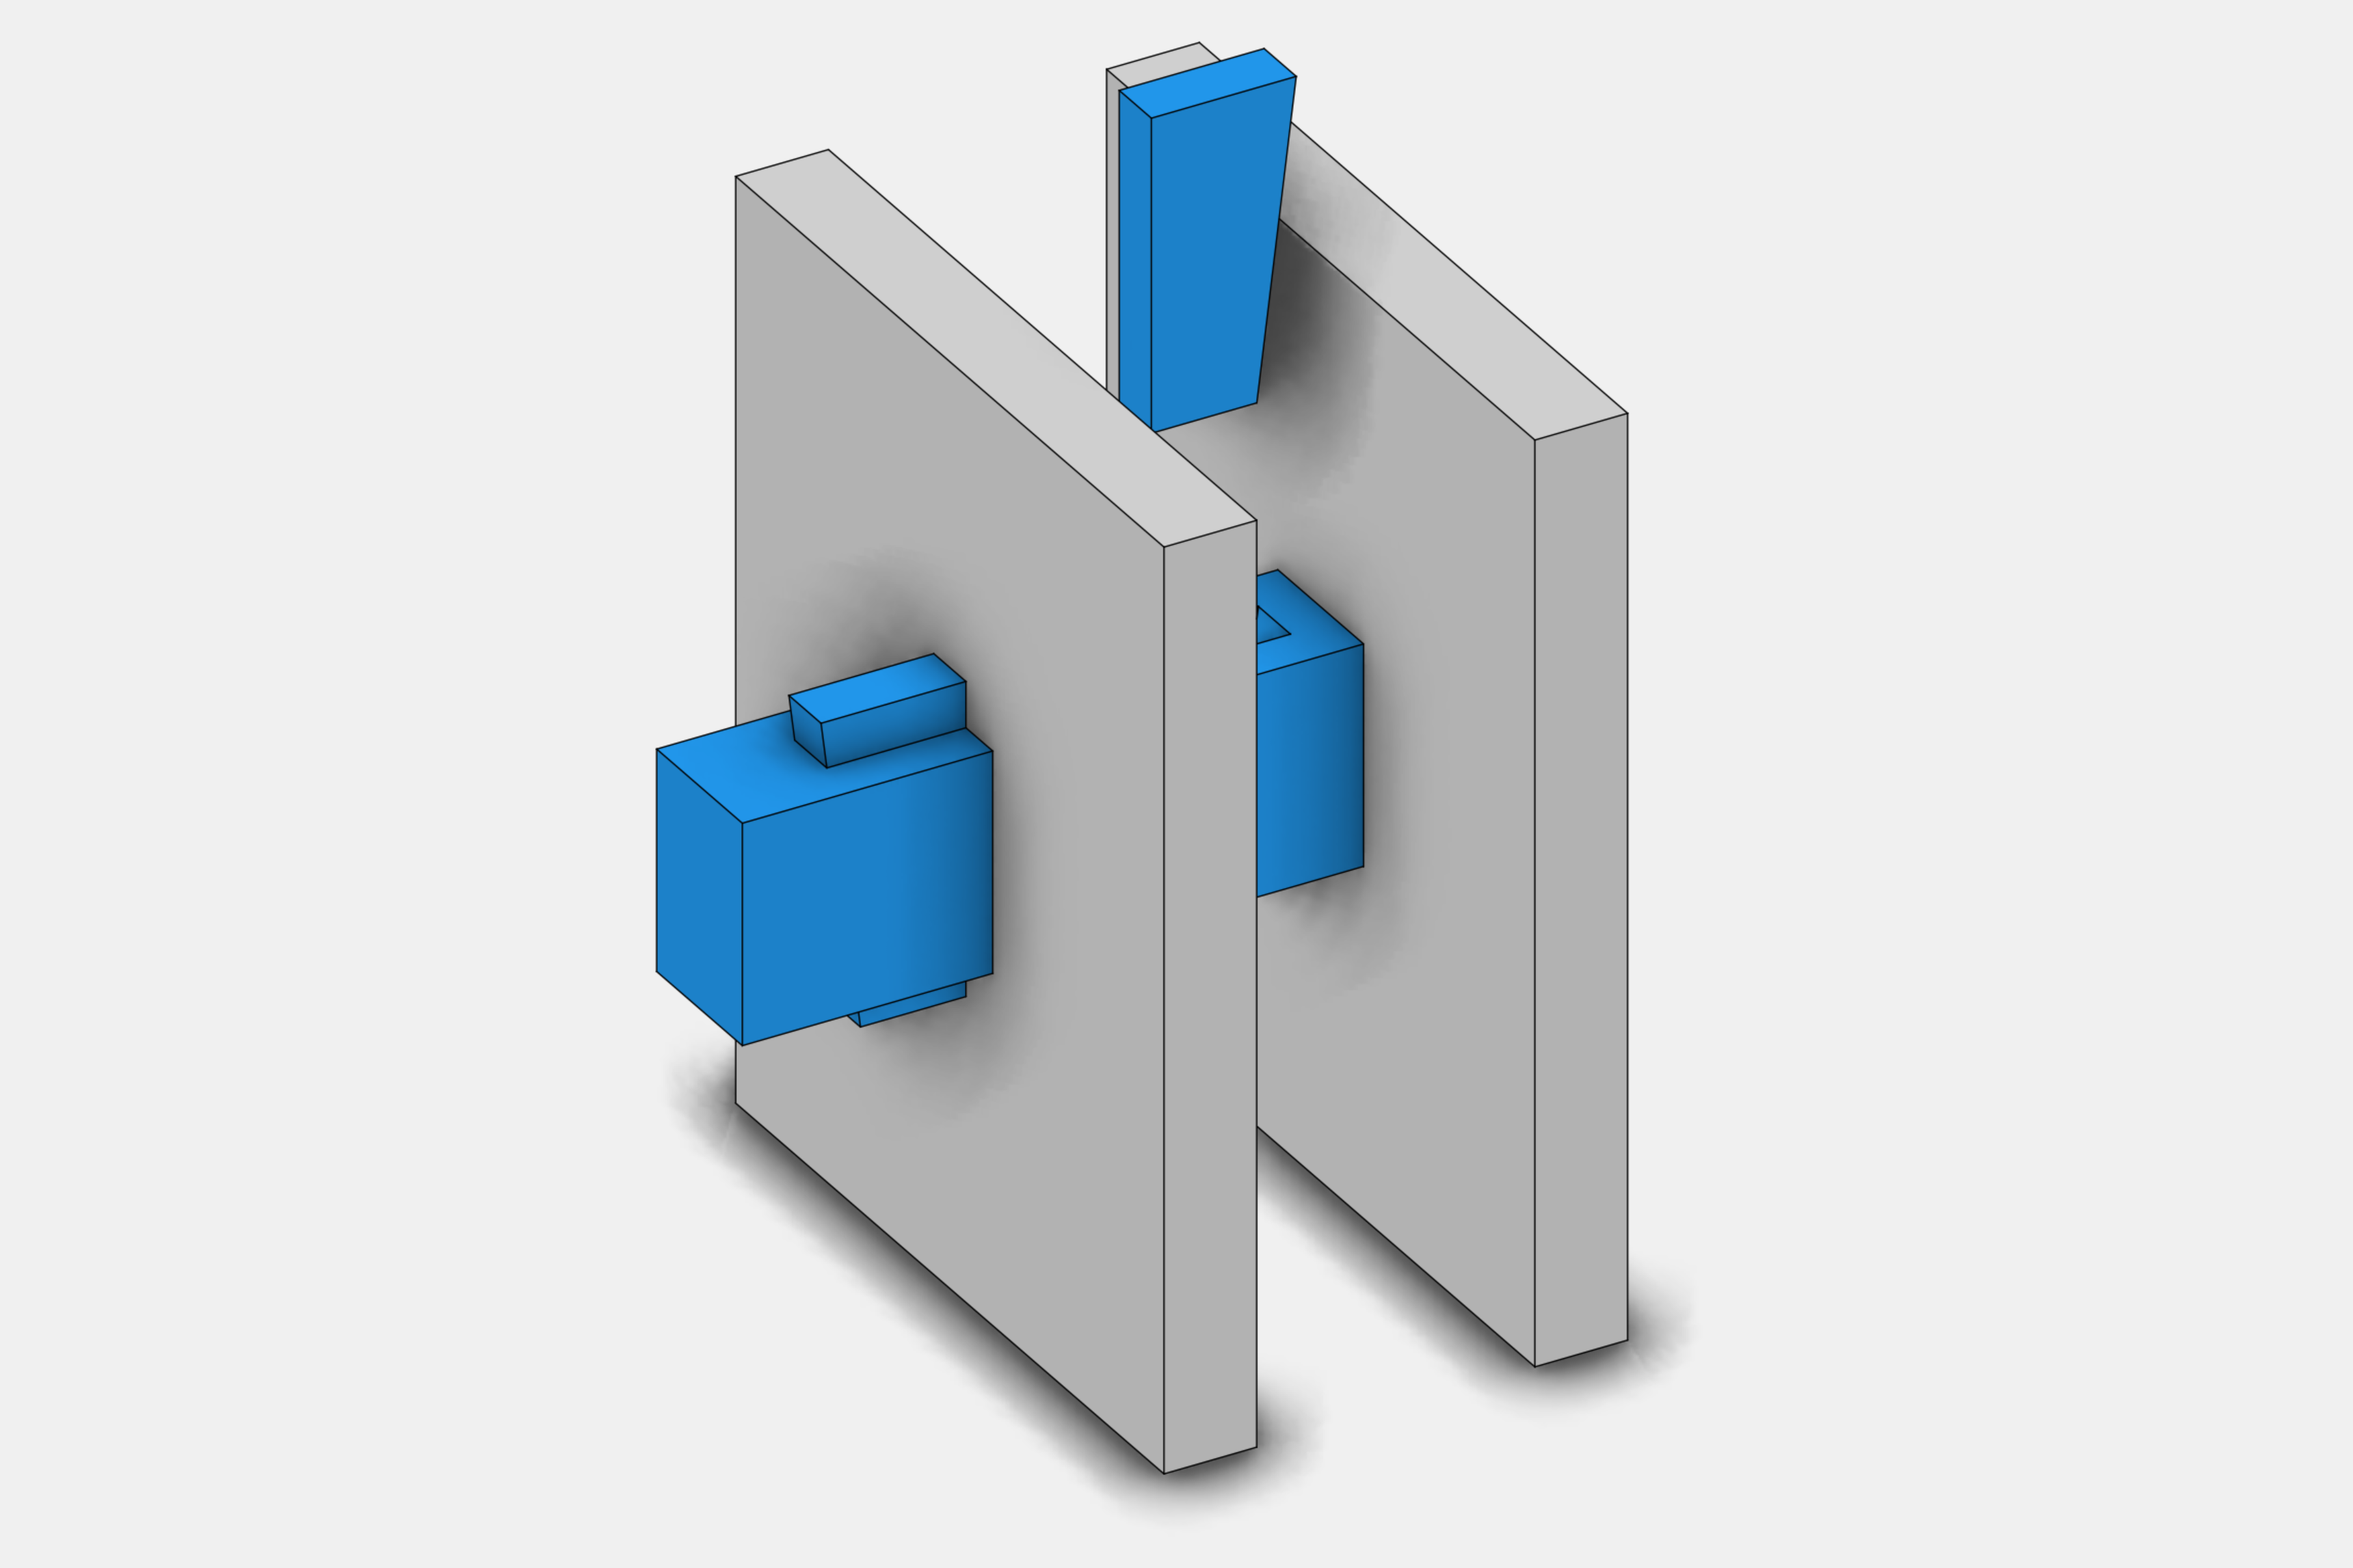
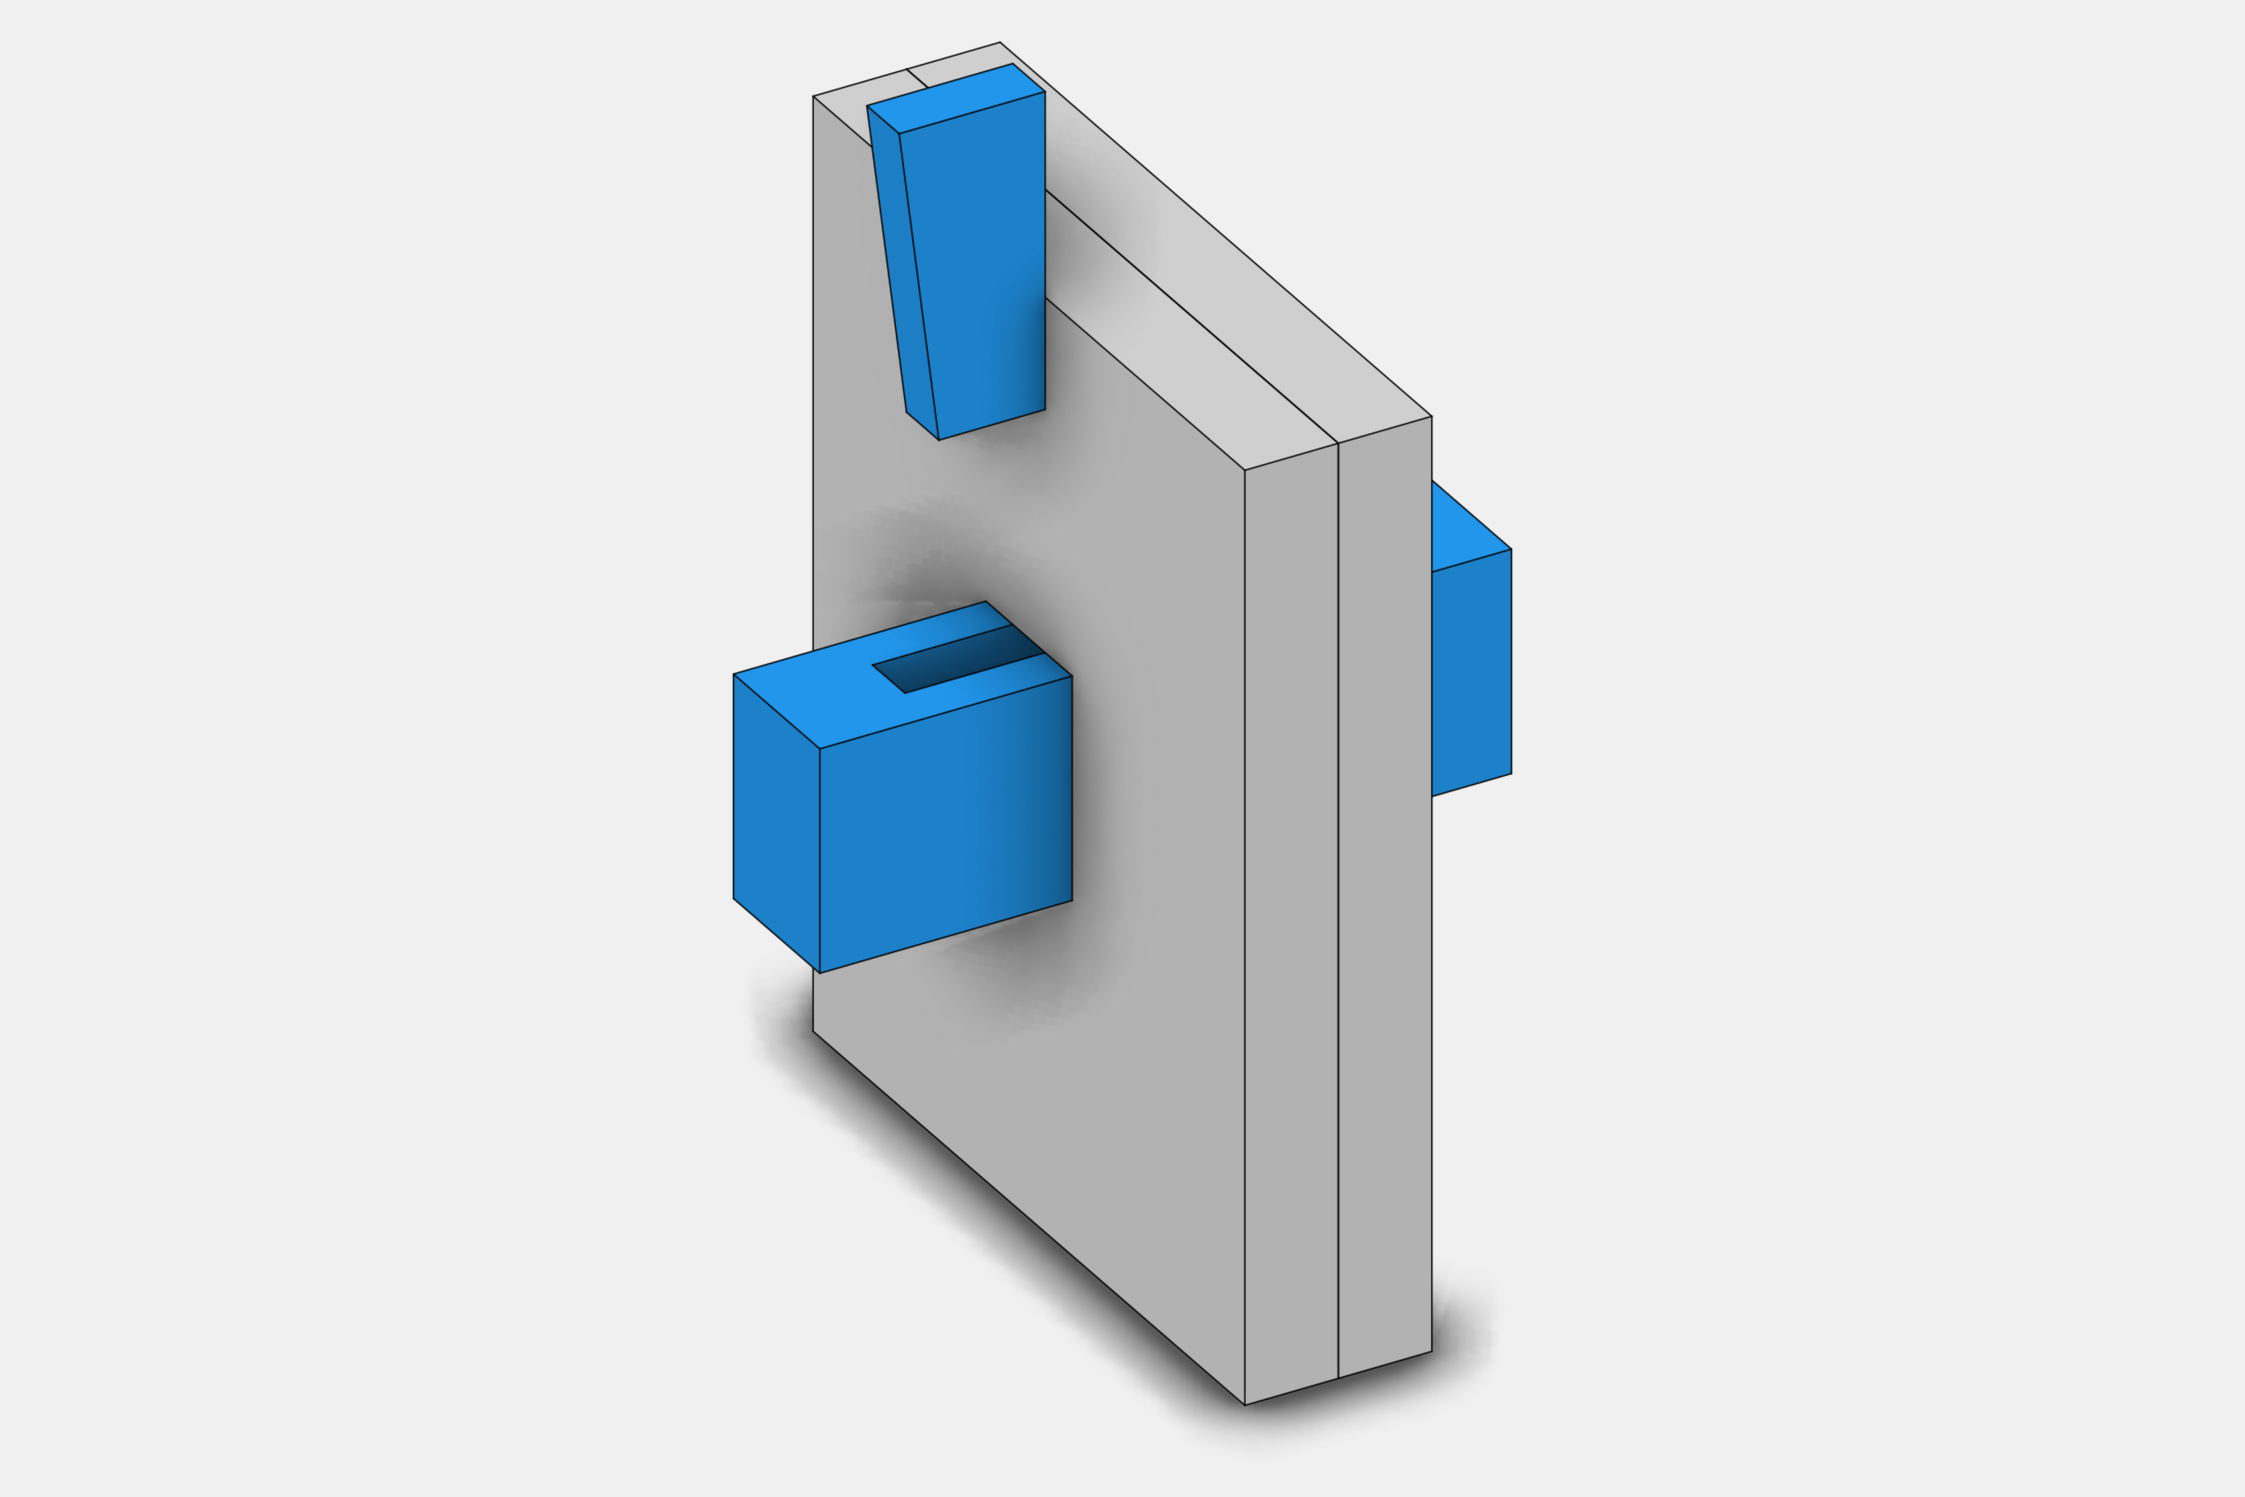
element_joint_beam_keyed_box: plates together, the second key lifted out, seen from the front

Changed region(s): [[0.2795, 0.0311, 0.7144, 0.963]]

diff --git a/examples/elements/element_joint_beam_keyed_box.cpp b/examples/elements/element_joint_beam_keyed_box.cpp
@@ -3,7 +3,7 @@
 using namespace session_cpp;
 using namespace wood_session;
 
-/// keyed_box: two plates face to face, held by a box through a mortise in both and locked by two wedge keys, drawn apart before its last two steps.
+/// keyed_box: two plates face to face, held by a box through a mortise in both and locked by two wedge keys, drawn before its last step, the plates together and the second key lifted out.
 int main() {
 
     WoodSession scene("element_joint_beam_keyed_box");
@@ -32,8 +32,7 @@ int main() {
     const std::shared_ptr<JointBeam> key_second =
         scene.get_element_by_name<JointBeam>("keyed_box_part_2");
 
-    // drawn apart: the first plate slid off along the box and the second key lifted out
-    first->place(Xform::translation(-120.0, 0.0, 0.0));
+    // the plates together on the box, the second key lifted out: it only goes in once the plates are seated
     key_second->place(Xform::translation(0.0, 0.0, 220.0));
 
     std::cout << scene << std::endl;
@@ -43,7 +42,7 @@ int main() {
 
 /*
 |||||||| DESCRIPTION ||||||||
-keyed_box: two plates face to face, held by a box through a mortise in both and locked by two wedge keys. The first key stops the box on the second plate; the second, driven in once the plates meet, pinches them together. Drawn apart before its last two steps.
+keyed_box: two plates face to face, held by a box through a mortise in both and locked by two wedge keys. The first key stops the box on the second plate; the second, driven in once the plates meet, pinches them together. Drawn before its last step, the plates together and the second key lifted out.
 
 |||||||| DIRECTORY ||||||||
 cd wood_research/wood

diff --git a/docs/elements/element_joint_beam_keyed_box.md b/docs/elements/element_joint_beam_keyed_box.md
@@ -33,7 +33,7 @@ The order is forced by the geometry:
 Once both keys are in, the only way anything moves is a key straight back out, wide end first.
 
 ## Keyed Box
-A pair of 40 plates with a box and keys at the default sizes, drawn before its last two steps: the first plate slid off along the box and the second key lifted out.
+A pair of 40 plates with a box and keys at the default sizes, drawn before its last step: the plates together on the box and the second key lifted out, since it only goes in once the plates are seated.
 
 ![](elements/element_joint_beam_keyed_box.png)
 
